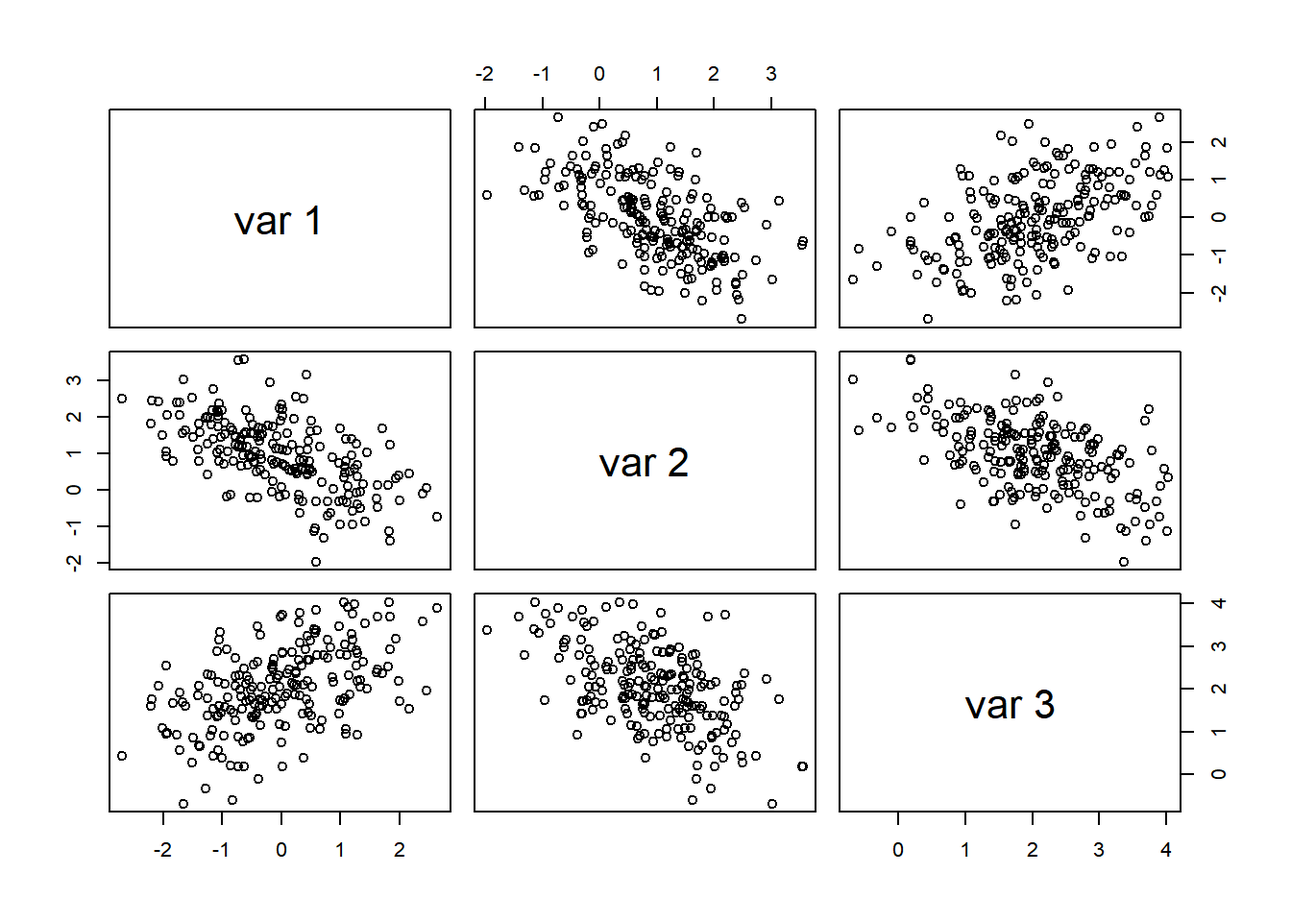
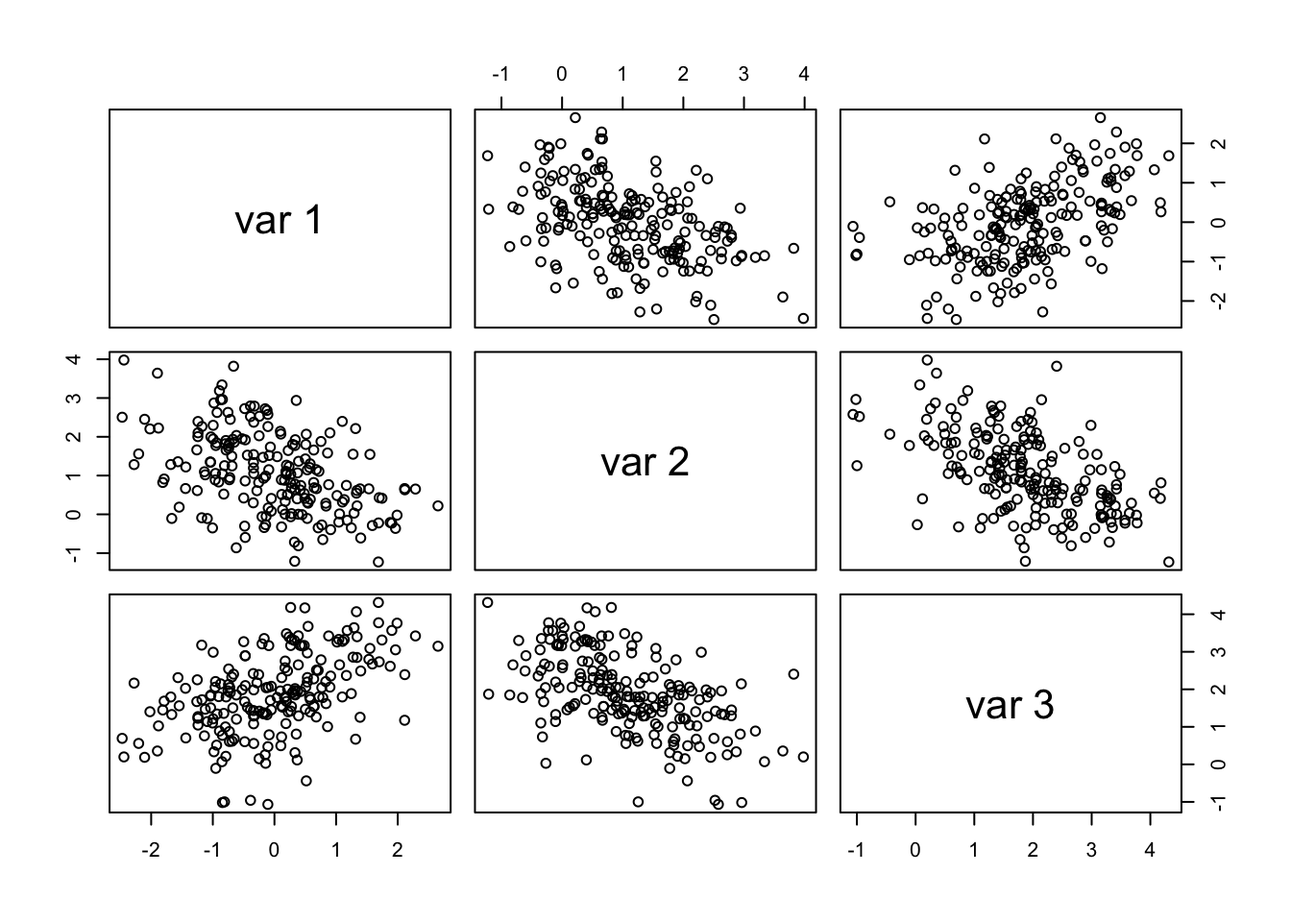
update lista2

diff --git a/EC/lista2/lista2.html b/EC/lista2/lista2.html
@@ -2,14 +2,14 @@
 <html xmlns="http://www.w3.org/1999/xhtml" lang="en" xml:lang="en"><head>
 
 <meta charset="utf-8">
-<meta name="generator" content="quarto-1.3.433">
+<meta name="generator" content="quarto-1.3.450">
 
 <meta name="viewport" content="width=device-width, initial-scale=1.0, user-scalable=yes">
 
 <meta name="author" content="Tailine J. S. Nonato">
 <meta name="dcterms.date" content="2023-10-24">
 
-<title>LISTA 2</title>
+<title>LISTA 2 (version 2)</title>
 <style>
 code{white-space: pre-wrap;}
 span.smallcaps{font-variant: small-caps;}
@@ -83,7 +83,7 @@ pre > code.sourceCode > span > a:first-child::before { text-decoration: underlin
 
 <header id="title-block-header" class="quarto-title-block default">
 <div class="quarto-title">
-<h1 class="title">LISTA 2</h1>
+<h1 class="title">LISTA 2 (version 2)</h1>
 <p class="subtitle lead">ESTATÍSTICA COMPUTACIONAL</p>
 </div>
 
@@ -117,67 +117,62 @@ pre > code.sourceCode > span > a:first-child::before { text-decoration: underlin
 x &amp; 0 &amp; 1 &amp; 2 &amp; 3 &amp; 4 \\ \hline
 f(x) &amp; 0.1 &amp; 0.2 &amp; 0.2 &amp; 0.2 &amp; 0.3
 \end{matrix}
-\]</span> Use the inverse transform method to generate a random sample of size 1000 from the distribution of X. Construct a relative frequency table and compare the empirical with the theoretical probabilities. Repeat using the R sample function.</p>
+\]</span></p>
+<p>Use the inverse transform method to generate a random sample of size 1000 from the distribution of X. Construct a relative frequency table and compare the empirical with the theoretical probabilities. Repeat using the R sample function.</p>
+<p><strong>Answers</strong></p>
 </section>
 <section id="acceptance-rejection-rizzo-3.7" class="level2">
 <h2 class="anchored" data-anchor-id="acceptance-rejection-rizzo-3.7">2) Acceptance-Rejection: Rizzo 3.7</h2>
 <p>Write a function to generate a random sample of size n from the <span class="math inline">\(Beta(a, b)\)</span> distribution by the acceptance-rejection method. Generate a random sample of size 1000 from the <span class="math inline">\(Beta(3,2)\)</span> distribution. Graph the histogram of the sample with the theoretical <span class="math inline">\(Beta(3,2)\)</span> density superimposed.</p>
-<p>No solutions</p>
+<p><strong>Answers</strong></p>
 </section>
 <section id="multivariate-normal-rizzo-3.14" class="level2">
 <h2 class="anchored" data-anchor-id="multivariate-normal-rizzo-3.14">3) Multivariate Normal: Rizzo 3.14</h2>
 <p>Obs.: Essa resolução está comentada, pois fui uma das selecionadas para realizar essa atividade para apresentação em sala.</p>
-<p>Generate 200 random observations from the 3-dimensional multivariate normal distribution having mean vector <span class="math inline">\(\mu = (0, 1, 2)\)</span> and covariance matrix <span class="math display">\[\sum =
+<p>Generate 200 random observations from the 3-dimensional multivariate normal distribution having mean vector <span class="math inline">\(\mu = (0, 1, 2)\)</span> and covariance matrix</p>
+<p><span class="math display">\[\sum =
 \begin{bmatrix}
 1    &amp; -0.5 &amp; 0.5 \\
 -0.5 &amp;  1   &amp; -0.5 \\
 0.5  &amp; -0.5 &amp; 1
-\end{bmatrix}\]</span> using the Choleski factorization method. Use the R pairs plot to graph an array of scatter plots for each pair of variables.</p>
+\end{bmatrix}\]</span></p>
+<p>using the Choleski factorization method. Use the R pairs plot to graph an array of scatter plots for each pair of variables.</p>
 <p>For each pair of variables, 96 Statistical Computing with R (visually) check that the location and correlation approximately agree with the theoretical parameters of the corresponding bivariate normal distribution.</p>
-<div class="cell">
-<div class="sourceCode cell-code" id="cb1"><pre class="sourceCode r code-with-copy"><code class="sourceCode r"><span id="cb1-1"><a href="#cb1-1" aria-hidden="true" tabindex="-1"></a><span class="cf">if</span> (<span class="sc">!</span><span class="fu">require</span>(pacman)) <span class="fu">install.packages</span>(<span class="st">"pacman"</span>)</span></code><button title="Copy to Clipboard" class="code-copy-button"><i class="bi"></i></button></pre></div>
-<div class="cell-output cell-output-stderr">
-<pre><code>Carregando pacotes exigidos: pacman</code></pre>
-</div>
-<div class="cell-output cell-output-stderr">
-<pre><code>Warning: package 'pacman' was built under R version 4.3.1</code></pre>
-</div>
-<div class="sourceCode cell-code" id="cb4"><pre class="sourceCode r code-with-copy"><code class="sourceCode r"><span id="cb4-1"><a href="#cb4-1" aria-hidden="true" tabindex="-1"></a>pacman<span class="sc">::</span><span class="fu">p_load</span>(tidyverse,bayesmeta)</span></code><button title="Copy to Clipboard" class="code-copy-button"><i class="bi"></i></button></pre></div>
-</div>
+<p><strong>Answer</strong></p>
 <p>Seguindo o exemplo 3.18 do livro texto, tem-se que a função para o Método da Fatoração de Choleski para gerar amostras de Distribuição Normal N-Dimensional pode ser escrita por:</p>
 <div class="cell">
-<div class="sourceCode cell-code" id="cb5"><pre class="sourceCode r code-with-copy"><code class="sourceCode r"><span id="cb5-1"><a href="#cb5-1" aria-hidden="true" tabindex="-1"></a>rmvn.Choleski <span class="ot">&lt;-</span></span>
-<span id="cb5-2"><a href="#cb5-2" aria-hidden="true" tabindex="-1"></a><span class="cf">function</span>(n, mu, Sigma) {</span>
-<span id="cb5-3"><a href="#cb5-3" aria-hidden="true" tabindex="-1"></a><span class="co"># generate n random vectors from MVN(mu, Sigma)</span></span>
-<span id="cb5-4"><a href="#cb5-4" aria-hidden="true" tabindex="-1"></a><span class="co"># dimension is inferred from mu and Sigma</span></span>
-<span id="cb5-5"><a href="#cb5-5" aria-hidden="true" tabindex="-1"></a>d <span class="ot">&lt;-</span> <span class="fu">length</span>(mu) </span>
-<span id="cb5-6"><a href="#cb5-6" aria-hidden="true" tabindex="-1"></a>Q <span class="ot">&lt;-</span> <span class="fu">chol</span>(Sigma) <span class="co"># Choleski factorization of Sigma</span></span>
-<span id="cb5-7"><a href="#cb5-7" aria-hidden="true" tabindex="-1"></a>Z <span class="ot">&lt;-</span> <span class="fu">matrix</span>(<span class="fu">rnorm</span>(n<span class="sc">*</span>d), <span class="at">nrow=</span>n, <span class="at">ncol=</span>d)</span>
-<span id="cb5-8"><a href="#cb5-8" aria-hidden="true" tabindex="-1"></a>X <span class="ot">&lt;-</span> Z <span class="sc">%*%</span> Q <span class="sc">+</span> <span class="fu">matrix</span>(mu, n, d, <span class="at">byrow=</span><span class="cn">TRUE</span>)</span>
-<span id="cb5-9"><a href="#cb5-9" aria-hidden="true" tabindex="-1"></a>X</span>
-<span id="cb5-10"><a href="#cb5-10" aria-hidden="true" tabindex="-1"></a>}</span></code><button title="Copy to Clipboard" class="code-copy-button"><i class="bi"></i></button></pre></div>
+<div class="sourceCode cell-code" id="cb1"><pre class="sourceCode r code-with-copy"><code class="sourceCode r"><span id="cb1-1"><a href="#cb1-1" aria-hidden="true" tabindex="-1"></a>rmvn.Choleski <span class="ot">&lt;-</span></span>
+<span id="cb1-2"><a href="#cb1-2" aria-hidden="true" tabindex="-1"></a><span class="cf">function</span>(n, mu, Sigma) {</span>
+<span id="cb1-3"><a href="#cb1-3" aria-hidden="true" tabindex="-1"></a><span class="co"># generate n random vectors from MVN(mu, Sigma)</span></span>
+<span id="cb1-4"><a href="#cb1-4" aria-hidden="true" tabindex="-1"></a><span class="co"># dimension is inferred from mu and Sigma</span></span>
+<span id="cb1-5"><a href="#cb1-5" aria-hidden="true" tabindex="-1"></a>d <span class="ot">&lt;-</span> <span class="fu">length</span>(mu) </span>
+<span id="cb1-6"><a href="#cb1-6" aria-hidden="true" tabindex="-1"></a>Q <span class="ot">&lt;-</span> <span class="fu">chol</span>(Sigma) <span class="co"># Choleski factorization of Sigma</span></span>
+<span id="cb1-7"><a href="#cb1-7" aria-hidden="true" tabindex="-1"></a>Z <span class="ot">&lt;-</span> <span class="fu">matrix</span>(<span class="fu">rnorm</span>(n<span class="sc">*</span>d), <span class="at">nrow=</span>n, <span class="at">ncol=</span>d)</span>
+<span id="cb1-8"><a href="#cb1-8" aria-hidden="true" tabindex="-1"></a>X <span class="ot">&lt;-</span> Z <span class="sc">%*%</span> Q <span class="sc">+</span> <span class="fu">matrix</span>(mu, n, d, <span class="at">byrow=</span><span class="cn">TRUE</span>)</span>
+<span id="cb1-9"><a href="#cb1-9" aria-hidden="true" tabindex="-1"></a>X</span>
+<span id="cb1-10"><a href="#cb1-10" aria-hidden="true" tabindex="-1"></a>}</span></code><button title="Copy to Clipboard" class="code-copy-button"><i class="bi"></i></button></pre></div>
 </div>
 <p>Agora adicionando os dados informados no enunciado e rodando a função são geradas listas:</p>
 <div class="cell">
-<div class="sourceCode cell-code" id="cb6"><pre class="sourceCode r code-with-copy"><code class="sourceCode r"><span id="cb6-1"><a href="#cb6-1" aria-hidden="true" tabindex="-1"></a>n <span class="ot">&lt;-</span> <span class="dv">200</span></span>
-<span id="cb6-2"><a href="#cb6-2" aria-hidden="true" tabindex="-1"></a>mu <span class="ot">&lt;-</span> <span class="fu">c</span>(<span class="dv">0</span>,<span class="dv">1</span>,<span class="dv">2</span>)</span>
-<span id="cb6-3"><a href="#cb6-3" aria-hidden="true" tabindex="-1"></a>sigma <span class="ot">&lt;-</span> <span class="fu">matrix</span>(<span class="fu">c</span>(<span class="dv">1</span>,<span class="sc">-</span>.<span class="dv">5</span>,.<span class="dv">5</span>,<span class="sc">-</span>.<span class="dv">5</span>,<span class="dv">1</span>,<span class="sc">-</span>.<span class="dv">5</span>,.<span class="dv">5</span>,<span class="sc">-</span>.<span class="dv">5</span>,<span class="dv">1</span>),<span class="at">nrow=</span><span class="dv">3</span>)</span>
-<span id="cb6-4"><a href="#cb6-4" aria-hidden="true" tabindex="-1"></a>x<span class="ot">&lt;-</span><span class="fu">rmvn.Choleski</span>(n,mu,sigma)</span>
-<span id="cb6-5"><a href="#cb6-5" aria-hidden="true" tabindex="-1"></a></span>
-<span id="cb6-6"><a href="#cb6-6" aria-hidden="true" tabindex="-1"></a><span class="fu">head</span>(x)</span></code><button title="Copy to Clipboard" class="code-copy-button"><i class="bi"></i></button></pre></div>
+<div class="sourceCode cell-code" id="cb2"><pre class="sourceCode r code-with-copy"><code class="sourceCode r"><span id="cb2-1"><a href="#cb2-1" aria-hidden="true" tabindex="-1"></a>n <span class="ot">&lt;-</span> <span class="dv">200</span></span>
+<span id="cb2-2"><a href="#cb2-2" aria-hidden="true" tabindex="-1"></a>mu <span class="ot">&lt;-</span> <span class="fu">c</span>(<span class="dv">0</span>,<span class="dv">1</span>,<span class="dv">2</span>)</span>
+<span id="cb2-3"><a href="#cb2-3" aria-hidden="true" tabindex="-1"></a>sigma <span class="ot">&lt;-</span> <span class="fu">matrix</span>(<span class="fu">c</span>(<span class="dv">1</span>,<span class="sc">-</span>.<span class="dv">5</span>,.<span class="dv">5</span>,<span class="sc">-</span>.<span class="dv">5</span>,<span class="dv">1</span>,<span class="sc">-</span>.<span class="dv">5</span>,.<span class="dv">5</span>,<span class="sc">-</span>.<span class="dv">5</span>,<span class="dv">1</span>),<span class="at">nrow=</span><span class="dv">3</span>)</span>
+<span id="cb2-4"><a href="#cb2-4" aria-hidden="true" tabindex="-1"></a>x<span class="ot">&lt;-</span><span class="fu">rmvn.Choleski</span>(n,mu,sigma)</span>
+<span id="cb2-5"><a href="#cb2-5" aria-hidden="true" tabindex="-1"></a></span>
+<span id="cb2-6"><a href="#cb2-6" aria-hidden="true" tabindex="-1"></a><span class="fu">head</span>(x)</span></code><button title="Copy to Clipboard" class="code-copy-button"><i class="bi"></i></button></pre></div>
 <div class="cell-output cell-output-stdout">
-<pre><code>            [,1]       [,2]       [,3]
-[1,]  1.42409535 -0.8695061  3.5347118
-[2,] -0.11580605  0.6952956  2.7121998
-[3,]  0.02517577  1.1016227  2.8551157
-[4,]  0.02609997  2.2014070  3.7350559
-[5,] -1.65842976  3.0189507 -0.6884936
-[6,] -1.16201869  2.1705268  1.0305340</code></pre>
+<pre><code>           [,1]       [,2]      [,3]
+[1,] -0.7884769  1.9048059 0.2146240
+[2,] -0.9952959  1.9425602 1.2129360
+[3,] -1.5458365  0.1853263 1.5605764
+[4,]  1.2752146  1.5506622 2.8579757
+[5,]  1.6859950 -1.2284759 4.3145579
+[6,] -2.1061090  2.4516501 0.1880788</code></pre>
 </div>
 </div>
 <p>E então os gráficos de dispersão dos valores gerados são dados por:</p>
 <div class="cell">
-<div class="sourceCode cell-code" id="cb8"><pre class="sourceCode r code-with-copy"><code class="sourceCode r"><span id="cb8-1"><a href="#cb8-1" aria-hidden="true" tabindex="-1"></a><span class="fu">pairs</span>(x)</span></code><button title="Copy to Clipboard" class="code-copy-button"><i class="bi"></i></button></pre></div>
+<div class="sourceCode cell-code" id="cb4"><pre class="sourceCode r code-with-copy"><code class="sourceCode r"><span id="cb4-1"><a href="#cb4-1" aria-hidden="true" tabindex="-1"></a><span class="fu">pairs</span>(x)</span></code><button title="Copy to Clipboard" class="code-copy-button"><i class="bi"></i></button></pre></div>
 <div class="cell-output-display">
 <p><img src="lista2_files/figure-html/unnamed-chunk-4-1.png" class="img-fluid" width="672"></p>
 </div>
@@ -186,7 +181,7 @@ f(x) &amp; 0.1 &amp; 0.2 &amp; 0.2 &amp; 0.2 &amp; 0.3
 <section id="antithetic-variables-rizzo-5.6" class="level2">
 <h2 class="anchored" data-anchor-id="antithetic-variables-rizzo-5.6">4) Antithetic Variables: Rizzo 5.6</h2>
 <p>In Example 5.7 the control variate approach was illustrated for Monte Carlo integration of <span class="math display">\[θ = \int_{0}^{1} e^x dx.\]</span> Now consider the antithetic variate approach. Compute <span class="math inline">\(Cov(e^U , e^{1−U} )\)</span> and <span class="math inline">\(Var(e^U + e^{1−U} )\)</span>, where $ U∼ Uniform(0,1)$. What is the percent reduction in variance of <span class="math inline">\(\theta\)</span> that can be achieved using antithetic variates (compared with simple MC)?</p>
-<p>No solutions</p>
+<p><strong>Answer</strong></p>
 </section>
 <section id="importance-sampling-rizzo-5.13-rizzo-5.14-e-rizzo-5.15" class="level2">
 <h2 class="anchored" data-anchor-id="importance-sampling-rizzo-5.13-rizzo-5.14-e-rizzo-5.15">5) Importance Sampling: Rizzo 5.13, Rizzo 5.14 e Rizzo 5.15</h2>
@@ -194,76 +189,76 @@ f(x) &amp; 0.1 &amp; 0.2 &amp; 0.2 &amp; 0.2 &amp; 0.3
 <h3 class="anchored" data-anchor-id="rizzo-5.13">Rizzo 5.13</h3>
 <p>Find two importance functions f1 and f2 that are supported on (1, ∞) and are ‘close’ to <span class="math display">\[g(x) = \frac{x^2}{\sqrt 2 \pi} e^{−x^{2}/2}, \hspace{1cm} x&gt;1\]</span> Which of your two importance functions should produce the smaller variance in estimating <span class="math display">\[\int_{1}^{\infty} \frac{x^2}{\sqrt 2 \pi} e^{−x^{2}/2} dx\]</span> by importance sampling? Explain.</p>
 <div class="cell">
-<div class="sourceCode cell-code" id="cb9"><pre class="sourceCode r code-with-copy"><code class="sourceCode r"><span id="cb9-1"><a href="#cb9-1" aria-hidden="true" tabindex="-1"></a>g <span class="ot">=</span> <span class="cf">function</span> (x) {</span>
-<span id="cb9-2"><a href="#cb9-2" aria-hidden="true" tabindex="-1"></a>  x <span class="sc">^</span> <span class="dv">2</span> <span class="sc">/</span> <span class="fu">sqrt</span>(<span class="dv">2</span><span class="sc">*</span>pi) <span class="sc">*</span> <span class="fu">exp</span>(<span class="sc">-</span>x<span class="sc">^</span><span class="dv">2</span><span class="sc">/</span><span class="dv">2</span>)</span>
-<span id="cb9-3"><a href="#cb9-3" aria-hidden="true" tabindex="-1"></a>}</span>
-<span id="cb9-4"><a href="#cb9-4" aria-hidden="true" tabindex="-1"></a></span>
-<span id="cb9-5"><a href="#cb9-5" aria-hidden="true" tabindex="-1"></a>xs <span class="ot">=</span> <span class="fu">seq</span>(<span class="dv">0</span>,<span class="dv">10</span>,<span class="fl">0.1</span>)</span>
-<span id="cb9-6"><a href="#cb9-6" aria-hidden="true" tabindex="-1"></a></span>
-<span id="cb9-7"><a href="#cb9-7" aria-hidden="true" tabindex="-1"></a>ys.g <span class="ot">=</span> <span class="fu">g</span>(xs)</span>
-<span id="cb9-8"><a href="#cb9-8" aria-hidden="true" tabindex="-1"></a>ys.rayleigh <span class="ot">=</span> <span class="fu">drayleigh</span>(xs)</span>
-<span id="cb9-9"><a href="#cb9-9" aria-hidden="true" tabindex="-1"></a>ys.norm <span class="ot">=</span> <span class="fu">dnorm</span>(xs, <span class="at">mean =</span> <span class="fl">1.5</span>)</span>
-<span id="cb9-10"><a href="#cb9-10" aria-hidden="true" tabindex="-1"></a>lim <span class="ot">=</span> <span class="fu">max</span>(<span class="fu">c</span>(ys.g, ys.rayleigh, ys.norm))</span>
-<span id="cb9-11"><a href="#cb9-11" aria-hidden="true" tabindex="-1"></a></span>
-<span id="cb9-12"><a href="#cb9-12" aria-hidden="true" tabindex="-1"></a><span class="fu">plot</span>(xs, ys.g, <span class="at">type =</span> <span class="st">"l"</span>, <span class="at">ylim =</span> <span class="fu">c</span>(<span class="dv">0</span>, lim))</span>
-<span id="cb9-13"><a href="#cb9-13" aria-hidden="true" tabindex="-1"></a><span class="fu">lines</span>(xs, ys.rayleigh, <span class="at">col=</span><span class="st">"red"</span>, <span class="at">ylim =</span> <span class="fu">c</span>(<span class="dv">0</span>, lim))</span>
-<span id="cb9-14"><a href="#cb9-14" aria-hidden="true" tabindex="-1"></a><span class="fu">lines</span>(xs, ys.norm, <span class="at">col=</span><span class="st">"blue"</span>, <span class="at">ylim =</span> <span class="fu">c</span>(<span class="dv">0</span>, lim))</span></code><button title="Copy to Clipboard" class="code-copy-button"><i class="bi"></i></button></pre></div>
+<div class="sourceCode cell-code" id="cb5"><pre class="sourceCode r code-with-copy"><code class="sourceCode r"><span id="cb5-1"><a href="#cb5-1" aria-hidden="true" tabindex="-1"></a>g <span class="ot">=</span> <span class="cf">function</span> (x) {</span>
+<span id="cb5-2"><a href="#cb5-2" aria-hidden="true" tabindex="-1"></a>  x <span class="sc">^</span> <span class="dv">2</span> <span class="sc">/</span> <span class="fu">sqrt</span>(<span class="dv">2</span><span class="sc">*</span>pi) <span class="sc">*</span> <span class="fu">exp</span>(<span class="sc">-</span>x<span class="sc">^</span><span class="dv">2</span><span class="sc">/</span><span class="dv">2</span>)</span>
+<span id="cb5-3"><a href="#cb5-3" aria-hidden="true" tabindex="-1"></a>}</span>
+<span id="cb5-4"><a href="#cb5-4" aria-hidden="true" tabindex="-1"></a></span>
+<span id="cb5-5"><a href="#cb5-5" aria-hidden="true" tabindex="-1"></a>xs <span class="ot">=</span> <span class="fu">seq</span>(<span class="dv">0</span>,<span class="dv">10</span>,<span class="fl">0.1</span>)</span>
+<span id="cb5-6"><a href="#cb5-6" aria-hidden="true" tabindex="-1"></a></span>
+<span id="cb5-7"><a href="#cb5-7" aria-hidden="true" tabindex="-1"></a>ys.g <span class="ot">=</span> <span class="fu">g</span>(xs)</span>
+<span id="cb5-8"><a href="#cb5-8" aria-hidden="true" tabindex="-1"></a>ys.rayleigh <span class="ot">=</span> <span class="fu">drayleigh</span>(xs)</span>
+<span id="cb5-9"><a href="#cb5-9" aria-hidden="true" tabindex="-1"></a>ys.norm <span class="ot">=</span> <span class="fu">dnorm</span>(xs, <span class="at">mean =</span> <span class="fl">1.5</span>)</span>
+<span id="cb5-10"><a href="#cb5-10" aria-hidden="true" tabindex="-1"></a>lim <span class="ot">=</span> <span class="fu">max</span>(<span class="fu">c</span>(ys.g, ys.rayleigh, ys.norm))</span>
+<span id="cb5-11"><a href="#cb5-11" aria-hidden="true" tabindex="-1"></a></span>
+<span id="cb5-12"><a href="#cb5-12" aria-hidden="true" tabindex="-1"></a><span class="fu">plot</span>(xs, ys.g, <span class="at">type =</span> <span class="st">"l"</span>, <span class="at">ylim =</span> <span class="fu">c</span>(<span class="dv">0</span>, lim))</span>
+<span id="cb5-13"><a href="#cb5-13" aria-hidden="true" tabindex="-1"></a><span class="fu">lines</span>(xs, ys.rayleigh, <span class="at">col=</span><span class="st">"red"</span>, <span class="at">ylim =</span> <span class="fu">c</span>(<span class="dv">0</span>, lim))</span>
+<span id="cb5-14"><a href="#cb5-14" aria-hidden="true" tabindex="-1"></a><span class="fu">lines</span>(xs, ys.norm, <span class="at">col=</span><span class="st">"blue"</span>, <span class="at">ylim =</span> <span class="fu">c</span>(<span class="dv">0</span>, lim))</span></code><button title="Copy to Clipboard" class="code-copy-button"><i class="bi"></i></button></pre></div>
 <div class="cell-output-display">
 <p><img src="lista2_files/figure-html/unnamed-chunk-5-1.png" class="img-fluid" width="672"></p>
 </div>
-<div class="sourceCode cell-code" id="cb10"><pre class="sourceCode r code-with-copy"><code class="sourceCode r"><span id="cb10-1"><a href="#cb10-1" aria-hidden="true" tabindex="-1"></a><span class="co">#f1(x) = drayleigh(x, sigma=1.5)</span></span>
-<span id="cb10-2"><a href="#cb10-2" aria-hidden="true" tabindex="-1"></a><span class="co">#f2(x) = dnorm(x, mean = 1.5)</span></span>
-<span id="cb10-3"><a href="#cb10-3" aria-hidden="true" tabindex="-1"></a></span>
-<span id="cb10-4"><a href="#cb10-4" aria-hidden="true" tabindex="-1"></a><span class="co"># f2 is a little closer to g. should be better.</span></span></code><button title="Copy to Clipboard" class="code-copy-button"><i class="bi"></i></button></pre></div>
+<div class="sourceCode cell-code" id="cb6"><pre class="sourceCode r code-with-copy"><code class="sourceCode r"><span id="cb6-1"><a href="#cb6-1" aria-hidden="true" tabindex="-1"></a><span class="co">#f1(x) = drayleigh(x, sigma=1.5)</span></span>
+<span id="cb6-2"><a href="#cb6-2" aria-hidden="true" tabindex="-1"></a><span class="co">#f2(x) = dnorm(x, mean = 1.5)</span></span>
+<span id="cb6-3"><a href="#cb6-3" aria-hidden="true" tabindex="-1"></a></span>
+<span id="cb6-4"><a href="#cb6-4" aria-hidden="true" tabindex="-1"></a><span class="co"># f2 is a little closer to g. should be better.</span></span></code><button title="Copy to Clipboard" class="code-copy-button"><i class="bi"></i></button></pre></div>
 </div>
 </section>
 <section id="rizzo-5.14" class="level3">
 <h3 class="anchored" data-anchor-id="rizzo-5.14">Rizzo 5.14</h3>
 <p>Obtain a Monte Carlo estimate of <span class="math display">\[\int_{1}^{\infty} \frac{x^2}{\sqrt 2 \pi} e^{−x^{2}/2} dx\]</span> by importance sampling.</p>
 <div class="cell">
-<div class="sourceCode cell-code" id="cb11"><pre class="sourceCode r code-with-copy"><code class="sourceCode r"><span id="cb11-1"><a href="#cb11-1" aria-hidden="true" tabindex="-1"></a>g <span class="ot">=</span> <span class="cf">function</span> (x) {</span>
-<span id="cb11-2"><a href="#cb11-2" aria-hidden="true" tabindex="-1"></a>  x <span class="sc">^</span> <span class="dv">2</span> <span class="sc">/</span> <span class="fu">sqrt</span>(<span class="dv">2</span><span class="sc">*</span>pi) <span class="sc">*</span> <span class="fu">exp</span>(<span class="sc">-</span>x<span class="sc">^</span><span class="dv">2</span><span class="sc">/</span><span class="dv">2</span>) <span class="sc">*</span> (x <span class="sc">&gt;</span> <span class="dv">1</span>)</span>
-<span id="cb11-3"><a href="#cb11-3" aria-hidden="true" tabindex="-1"></a>}</span>
-<span id="cb11-4"><a href="#cb11-4" aria-hidden="true" tabindex="-1"></a></span>
-<span id="cb11-5"><a href="#cb11-5" aria-hidden="true" tabindex="-1"></a>sigma.rayleigh <span class="ot">=</span> <span class="fl">1.5</span></span>
-<span id="cb11-6"><a href="#cb11-6" aria-hidden="true" tabindex="-1"></a>mean <span class="ot">=</span> <span class="fl">1.5</span></span>
-<span id="cb11-7"><a href="#cb11-7" aria-hidden="true" tabindex="-1"></a>n <span class="ot">=</span> <span class="dv">10000</span></span>
-<span id="cb11-8"><a href="#cb11-8" aria-hidden="true" tabindex="-1"></a></span>
-<span id="cb11-9"><a href="#cb11-9" aria-hidden="true" tabindex="-1"></a>f1 <span class="ot">=</span> <span class="cf">function</span> (x) {</span>
-<span id="cb11-10"><a href="#cb11-10" aria-hidden="true" tabindex="-1"></a>  <span class="fu">drayleigh</span>(x) <span class="sc">*</span> (x <span class="sc">&gt;</span> <span class="dv">1</span>)</span>
-<span id="cb11-11"><a href="#cb11-11" aria-hidden="true" tabindex="-1"></a>}</span>
-<span id="cb11-12"><a href="#cb11-12" aria-hidden="true" tabindex="-1"></a></span>
-<span id="cb11-13"><a href="#cb11-13" aria-hidden="true" tabindex="-1"></a>f2 <span class="ot">=</span> <span class="cf">function</span> (x) {</span>
-<span id="cb11-14"><a href="#cb11-14" aria-hidden="true" tabindex="-1"></a>  <span class="fu">dnorm</span>(x, <span class="at">mean =</span> mean) <span class="sc">*</span> (x <span class="sc">&gt;</span> <span class="dv">1</span>)</span>
-<span id="cb11-15"><a href="#cb11-15" aria-hidden="true" tabindex="-1"></a>}</span>
-<span id="cb11-16"><a href="#cb11-16" aria-hidden="true" tabindex="-1"></a></span>
-<span id="cb11-17"><a href="#cb11-17" aria-hidden="true" tabindex="-1"></a>rf1 <span class="ot">=</span> <span class="cf">function</span> () {</span>
-<span id="cb11-18"><a href="#cb11-18" aria-hidden="true" tabindex="-1"></a>  <span class="fu">rrayleigh</span>(n)</span>
-<span id="cb11-19"><a href="#cb11-19" aria-hidden="true" tabindex="-1"></a>}</span>
-<span id="cb11-20"><a href="#cb11-20" aria-hidden="true" tabindex="-1"></a></span>
-<span id="cb11-21"><a href="#cb11-21" aria-hidden="true" tabindex="-1"></a>rf2 <span class="ot">=</span> <span class="cf">function</span> () {</span>
-<span id="cb11-22"><a href="#cb11-22" aria-hidden="true" tabindex="-1"></a>  <span class="fu">rnorm</span>(n, <span class="at">mean =</span> mean)</span>
-<span id="cb11-23"><a href="#cb11-23" aria-hidden="true" tabindex="-1"></a>}</span>
-<span id="cb11-24"><a href="#cb11-24" aria-hidden="true" tabindex="-1"></a></span>
-<span id="cb11-25"><a href="#cb11-25" aria-hidden="true" tabindex="-1"></a>is.rayleigh <span class="ot">=</span> <span class="cf">function</span> () {</span>
-<span id="cb11-26"><a href="#cb11-26" aria-hidden="true" tabindex="-1"></a>  xs <span class="ot">=</span> <span class="fu">rf1</span>()</span>
-<span id="cb11-27"><a href="#cb11-27" aria-hidden="true" tabindex="-1"></a>  <span class="fu">return</span>(<span class="fu">mean</span>(<span class="fu">g</span>(xs)<span class="sc">/</span><span class="fu">f1</span>(xs), <span class="at">na.rm =</span> <span class="cn">TRUE</span>))  </span>
-<span id="cb11-28"><a href="#cb11-28" aria-hidden="true" tabindex="-1"></a>}</span>
-<span id="cb11-29"><a href="#cb11-29" aria-hidden="true" tabindex="-1"></a></span>
-<span id="cb11-30"><a href="#cb11-30" aria-hidden="true" tabindex="-1"></a>is.norm <span class="ot">=</span> <span class="cf">function</span> () {</span>
-<span id="cb11-31"><a href="#cb11-31" aria-hidden="true" tabindex="-1"></a>  xs <span class="ot">=</span> <span class="fu">rf2</span>()</span>
-<span id="cb11-32"><a href="#cb11-32" aria-hidden="true" tabindex="-1"></a>  <span class="fu">return</span>(<span class="fu">mean</span>(<span class="fu">g</span>(xs)<span class="sc">/</span><span class="fu">f2</span>(xs), <span class="at">na.rm =</span> <span class="cn">TRUE</span>))  </span>
-<span id="cb11-33"><a href="#cb11-33" aria-hidden="true" tabindex="-1"></a>}</span>
-<span id="cb11-34"><a href="#cb11-34" aria-hidden="true" tabindex="-1"></a></span>
-<span id="cb11-35"><a href="#cb11-35" aria-hidden="true" tabindex="-1"></a>(<span class="at">theta1 =</span> <span class="fu">is.rayleigh</span>())</span></code><button title="Copy to Clipboard" class="code-copy-button"><i class="bi"></i></button></pre></div>
+<div class="sourceCode cell-code" id="cb7"><pre class="sourceCode r code-with-copy"><code class="sourceCode r"><span id="cb7-1"><a href="#cb7-1" aria-hidden="true" tabindex="-1"></a>g <span class="ot">=</span> <span class="cf">function</span> (x) {</span>
+<span id="cb7-2"><a href="#cb7-2" aria-hidden="true" tabindex="-1"></a>  x <span class="sc">^</span> <span class="dv">2</span> <span class="sc">/</span> <span class="fu">sqrt</span>(<span class="dv">2</span><span class="sc">*</span>pi) <span class="sc">*</span> <span class="fu">exp</span>(<span class="sc">-</span>x<span class="sc">^</span><span class="dv">2</span><span class="sc">/</span><span class="dv">2</span>) <span class="sc">*</span> (x <span class="sc">&gt;</span> <span class="dv">1</span>)</span>
+<span id="cb7-3"><a href="#cb7-3" aria-hidden="true" tabindex="-1"></a>}</span>
+<span id="cb7-4"><a href="#cb7-4" aria-hidden="true" tabindex="-1"></a></span>
+<span id="cb7-5"><a href="#cb7-5" aria-hidden="true" tabindex="-1"></a>sigma.rayleigh <span class="ot">=</span> <span class="fl">1.5</span></span>
+<span id="cb7-6"><a href="#cb7-6" aria-hidden="true" tabindex="-1"></a>mean <span class="ot">=</span> <span class="fl">1.5</span></span>
+<span id="cb7-7"><a href="#cb7-7" aria-hidden="true" tabindex="-1"></a>n <span class="ot">=</span> <span class="dv">10000</span></span>
+<span id="cb7-8"><a href="#cb7-8" aria-hidden="true" tabindex="-1"></a></span>
+<span id="cb7-9"><a href="#cb7-9" aria-hidden="true" tabindex="-1"></a>f1 <span class="ot">=</span> <span class="cf">function</span> (x) {</span>
+<span id="cb7-10"><a href="#cb7-10" aria-hidden="true" tabindex="-1"></a>  <span class="fu">drayleigh</span>(x) <span class="sc">*</span> (x <span class="sc">&gt;</span> <span class="dv">1</span>)</span>
+<span id="cb7-11"><a href="#cb7-11" aria-hidden="true" tabindex="-1"></a>}</span>
+<span id="cb7-12"><a href="#cb7-12" aria-hidden="true" tabindex="-1"></a></span>
+<span id="cb7-13"><a href="#cb7-13" aria-hidden="true" tabindex="-1"></a>f2 <span class="ot">=</span> <span class="cf">function</span> (x) {</span>
+<span id="cb7-14"><a href="#cb7-14" aria-hidden="true" tabindex="-1"></a>  <span class="fu">dnorm</span>(x, <span class="at">mean =</span> mean) <span class="sc">*</span> (x <span class="sc">&gt;</span> <span class="dv">1</span>)</span>
+<span id="cb7-15"><a href="#cb7-15" aria-hidden="true" tabindex="-1"></a>}</span>
+<span id="cb7-16"><a href="#cb7-16" aria-hidden="true" tabindex="-1"></a></span>
+<span id="cb7-17"><a href="#cb7-17" aria-hidden="true" tabindex="-1"></a>rf1 <span class="ot">=</span> <span class="cf">function</span> () {</span>
+<span id="cb7-18"><a href="#cb7-18" aria-hidden="true" tabindex="-1"></a>  <span class="fu">rrayleigh</span>(n)</span>
+<span id="cb7-19"><a href="#cb7-19" aria-hidden="true" tabindex="-1"></a>}</span>
+<span id="cb7-20"><a href="#cb7-20" aria-hidden="true" tabindex="-1"></a></span>
+<span id="cb7-21"><a href="#cb7-21" aria-hidden="true" tabindex="-1"></a>rf2 <span class="ot">=</span> <span class="cf">function</span> () {</span>
+<span id="cb7-22"><a href="#cb7-22" aria-hidden="true" tabindex="-1"></a>  <span class="fu">rnorm</span>(n, <span class="at">mean =</span> mean)</span>
+<span id="cb7-23"><a href="#cb7-23" aria-hidden="true" tabindex="-1"></a>}</span>
+<span id="cb7-24"><a href="#cb7-24" aria-hidden="true" tabindex="-1"></a></span>
+<span id="cb7-25"><a href="#cb7-25" aria-hidden="true" tabindex="-1"></a>is.rayleigh <span class="ot">=</span> <span class="cf">function</span> () {</span>
+<span id="cb7-26"><a href="#cb7-26" aria-hidden="true" tabindex="-1"></a>  xs <span class="ot">=</span> <span class="fu">rf1</span>()</span>
+<span id="cb7-27"><a href="#cb7-27" aria-hidden="true" tabindex="-1"></a>  <span class="fu">return</span>(<span class="fu">mean</span>(<span class="fu">g</span>(xs)<span class="sc">/</span><span class="fu">f1</span>(xs), <span class="at">na.rm =</span> <span class="cn">TRUE</span>))  </span>
+<span id="cb7-28"><a href="#cb7-28" aria-hidden="true" tabindex="-1"></a>}</span>
+<span id="cb7-29"><a href="#cb7-29" aria-hidden="true" tabindex="-1"></a></span>
+<span id="cb7-30"><a href="#cb7-30" aria-hidden="true" tabindex="-1"></a>is.norm <span class="ot">=</span> <span class="cf">function</span> () {</span>
+<span id="cb7-31"><a href="#cb7-31" aria-hidden="true" tabindex="-1"></a>  xs <span class="ot">=</span> <span class="fu">rf2</span>()</span>
+<span id="cb7-32"><a href="#cb7-32" aria-hidden="true" tabindex="-1"></a>  <span class="fu">return</span>(<span class="fu">mean</span>(<span class="fu">g</span>(xs)<span class="sc">/</span><span class="fu">f2</span>(xs), <span class="at">na.rm =</span> <span class="cn">TRUE</span>))  </span>
+<span id="cb7-33"><a href="#cb7-33" aria-hidden="true" tabindex="-1"></a>}</span>
+<span id="cb7-34"><a href="#cb7-34" aria-hidden="true" tabindex="-1"></a></span>
+<span id="cb7-35"><a href="#cb7-35" aria-hidden="true" tabindex="-1"></a>(<span class="at">theta1 =</span> <span class="fu">is.rayleigh</span>())</span></code><button title="Copy to Clipboard" class="code-copy-button"><i class="bi"></i></button></pre></div>
 <div class="cell-output cell-output-stdout">
-<pre><code>[1] 0.6651384</code></pre>
+<pre><code>[1] 0.6610559</code></pre>
 </div>
-<div class="sourceCode cell-code" id="cb13"><pre class="sourceCode r code-with-copy"><code class="sourceCode r"><span id="cb13-1"><a href="#cb13-1" aria-hidden="true" tabindex="-1"></a>(<span class="at">theta2 =</span> <span class="fu">is.norm</span>())</span></code><button title="Copy to Clipboard" class="code-copy-button"><i class="bi"></i></button></pre></div>
+<div class="sourceCode cell-code" id="cb9"><pre class="sourceCode r code-with-copy"><code class="sourceCode r"><span id="cb9-1"><a href="#cb9-1" aria-hidden="true" tabindex="-1"></a>(<span class="at">theta2 =</span> <span class="fu">is.norm</span>())</span></code><button title="Copy to Clipboard" class="code-copy-button"><i class="bi"></i></button></pre></div>
 <div class="cell-output cell-output-stdout">
-<pre><code>[1] 0.579356</code></pre>
+<pre><code>[1] 0.5777139</code></pre>
 </div>
-<div class="sourceCode cell-code" id="cb15"><pre class="sourceCode r code-with-copy"><code class="sourceCode r"><span id="cb15-1"><a href="#cb15-1" aria-hidden="true" tabindex="-1"></a>(<span class="at">truth =</span> <span class="fl">0.400626</span>)</span></code><button title="Copy to Clipboard" class="code-copy-button"><i class="bi"></i></button></pre></div>
+<div class="sourceCode cell-code" id="cb11"><pre class="sourceCode r code-with-copy"><code class="sourceCode r"><span id="cb11-1"><a href="#cb11-1" aria-hidden="true" tabindex="-1"></a>(<span class="at">truth =</span> <span class="fl">0.400626</span>)</span></code><button title="Copy to Clipboard" class="code-copy-button"><i class="bi"></i></button></pre></div>
 <div class="cell-output cell-output-stdout">
 <pre><code>[1] 0.400626</code></pre>
 </div>
